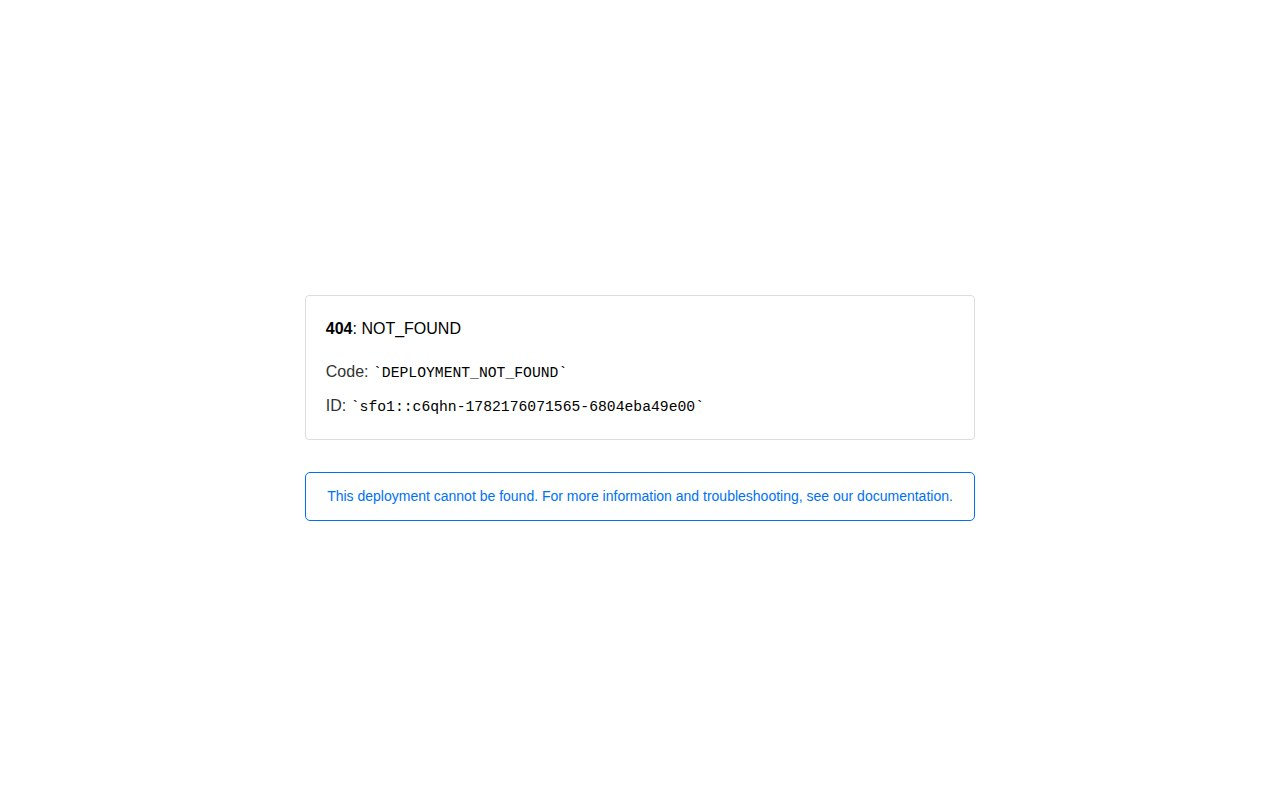
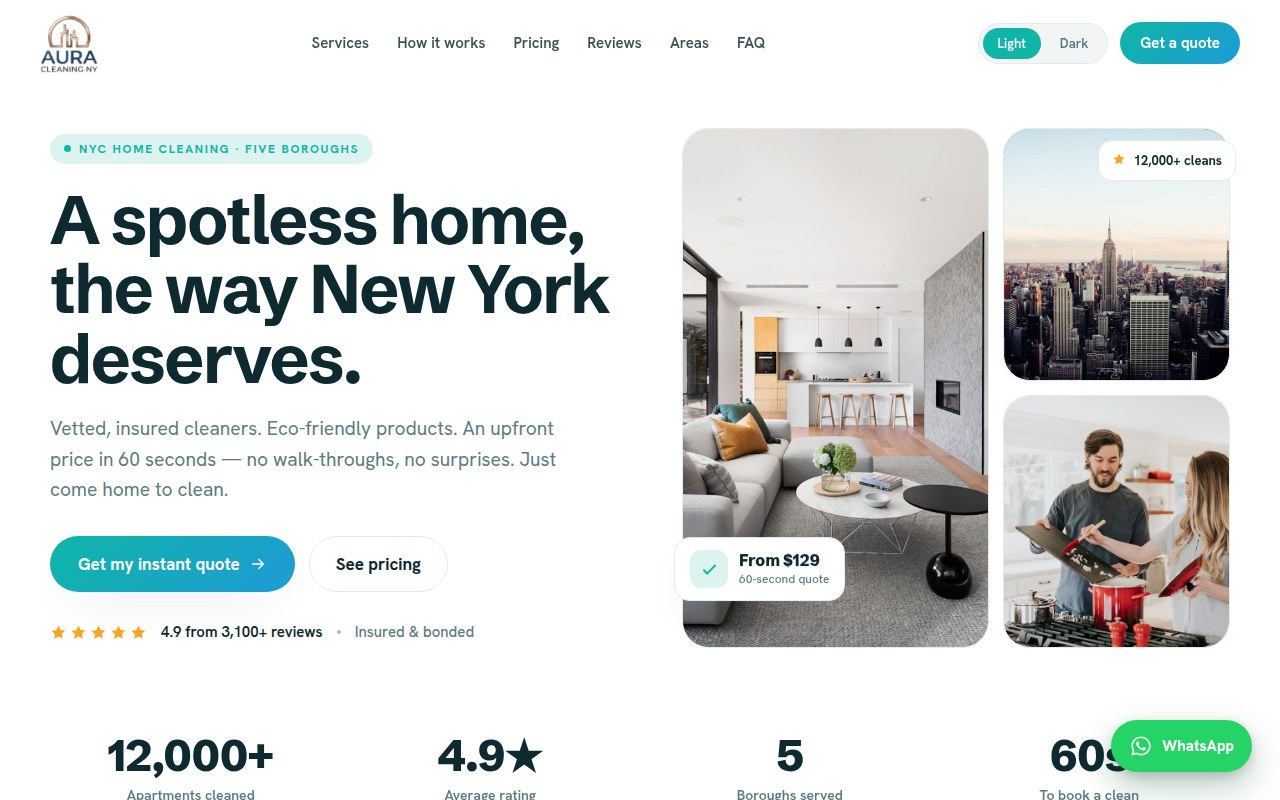
fix: correct URLs (aura, promptforja) + add IBAD-GB to portfolio

diff --git a/src/Sections.jsx b/src/Sections.jsx
@@ -358,7 +358,7 @@ const PROJECTS = [
     name: "Aura Cleaning NYC",
     category: "Landing Page",
     description: "Landing page de alta conversão para empresa de limpeza em Nova York, design premium e formulário integrado.",
-    url: "https://aura-cleaning-nyc.vercel.app",
+    url: "https://aura-cleaning-site.vercel.app",
     screen: "/screens/aura-cleaning.jpg",
     tags: ["HTML", "CSS", "Formspree"],
   },
@@ -376,9 +376,18 @@ const PROJECTS = [
     name: "PromptForja",
     category: "SaaS",
     description: "Plataforma SaaS de otimização de prompts com IA, multilíngue, pagamentos BR e internacionais.",
-    url: "https://promptforja.vercel.app",
+    url: "https://promptforja.com",
     screen: "/screens/promptforja.jpg",
     tags: ["React", "Supabase", "Stripe", "n8n"],
+  },
+  {
+    id: "ibadgb",
+    name: "IBAD-GB Sistema Web",
+    category: "Sistema Acadêmico",
+    description: "Sistema de gestão acadêmica para Instituto Bíblico das Assembleias de Deus da Guiné-Bissau — matrícula, notas, diplomas e relatórios.",
+    url: "https://ibadgb.app",
+    screen: "/screens/ibadgb.jpg",
+    tags: ["React", "TypeScript", "Supabase", "Vercel"],
   },
 ];
 